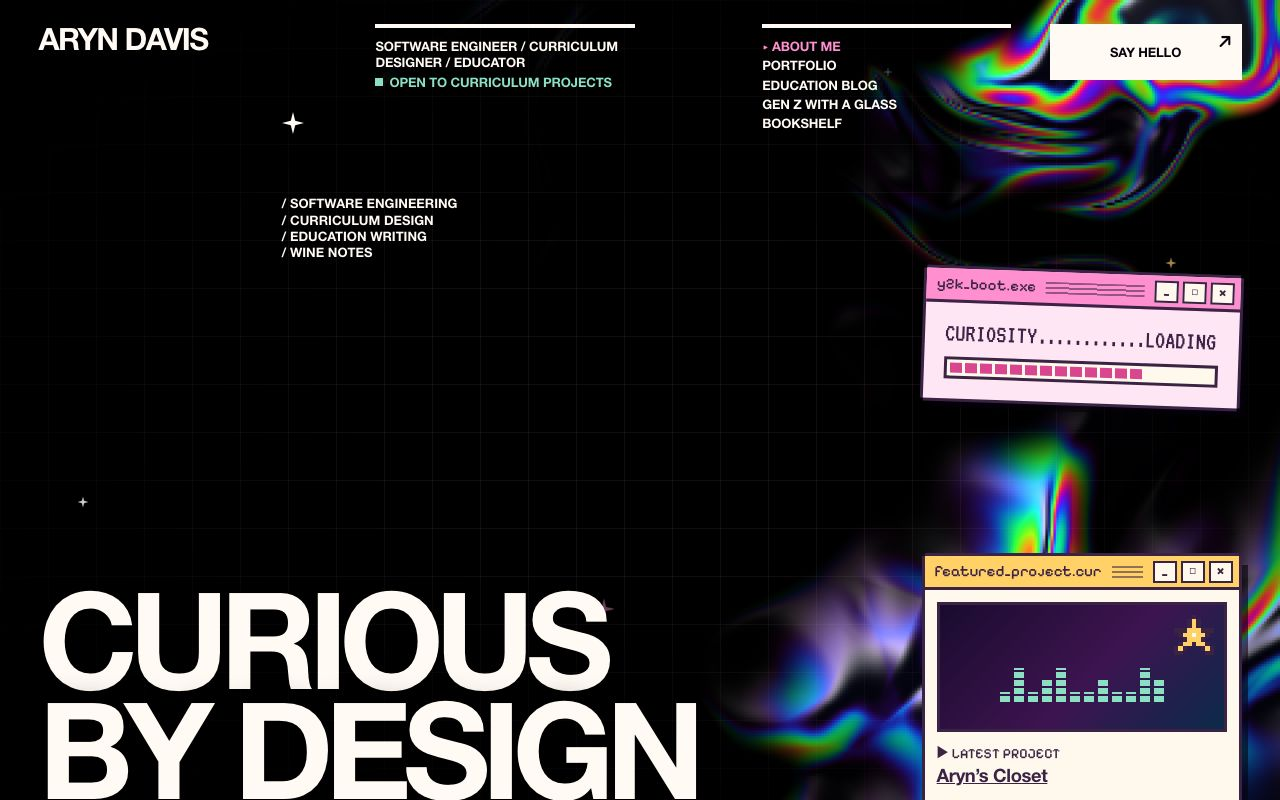
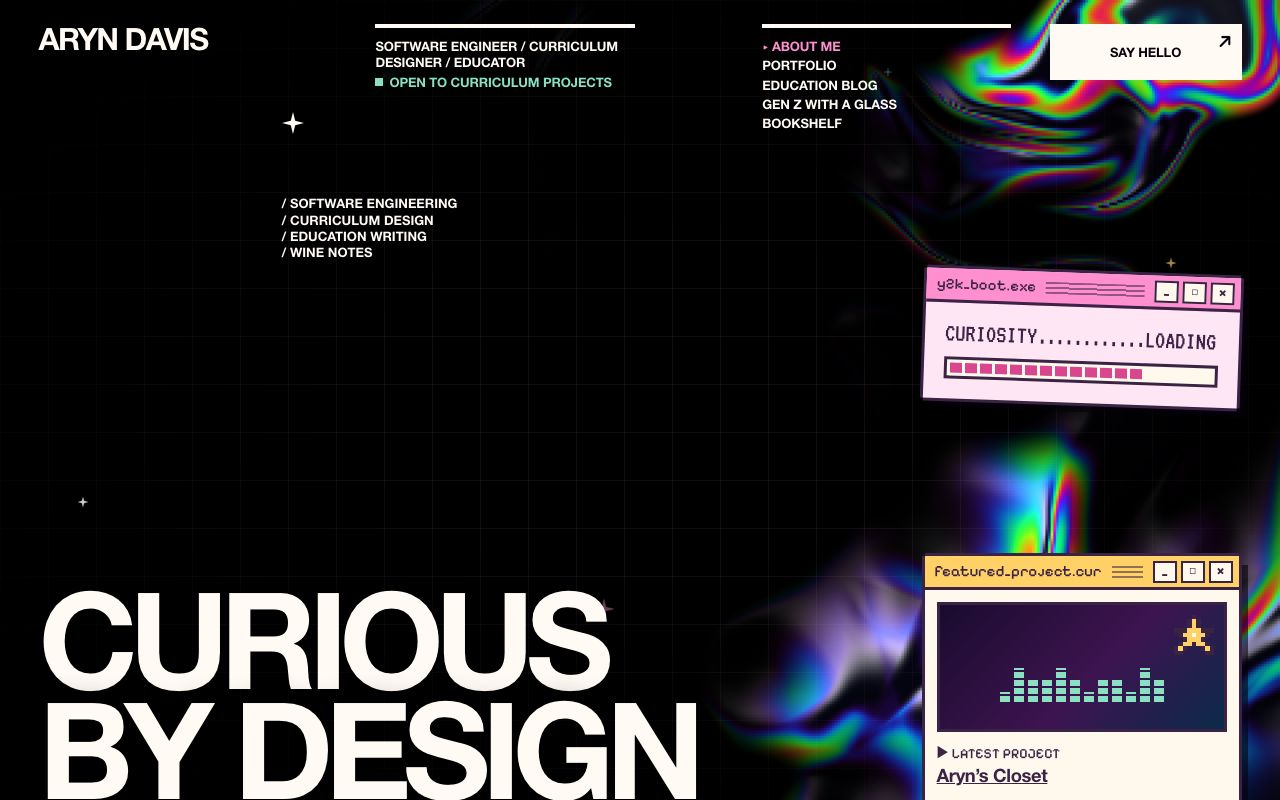
Add a school note to the home page
A draggable, closable note listing my M.Ed. program and relevant
courses, with a spot for assignment links (src/content/school.ts).
Until there are assignments, it says they're coming soon.

diff --git a/src/pages/Home.tsx b/src/pages/Home.tsx
@@ -7,6 +7,7 @@ import { newestFirst, type Entry } from '../content/types'
 import { winePosts } from '../content/wine'
 import { href } from '../router'
 import { currentlyReading } from '../content/books'
+import { school } from '../content/school'
 import { bookshelf, sections, site, type SectionKey } from '../site'
 
 const latest = <T extends Entry>(entries: T[], count = 2) => newestFirst(entries).slice(0, count)
@@ -19,7 +20,7 @@ const folders: { key: SectionKey; icon: IconName; tone: 'yellow' | 'mint' | 'pin
   { key: 'wine', icon: 'glass', tone: 'pink', entries: latest(winePosts) },
 ]
 
-type WindowId = 'about' | 'currently' | 'mail' | SectionKey
+type WindowId = 'about' | 'currently' | 'school' | 'mail' | SectionKey
 
 export default function Home() {
   const [closed, setClosed] = useState<WindowId[]>([])
@@ -181,6 +182,43 @@ export default function Home() {
                   <dd>something interesting</dd>
                 </div>
               </dl>
+            </PixelWindow>
+          )}
+
+          {isOpen('school') && (
+            <PixelWindow title="school_notes.txt" tone="yellow" className="school-window" movable onClose={close('school')} labelledBy="school-title">
+              <div className="folder-head">
+                <PixelIcon name="notebook" size={40} />
+                <div>
+                  <h2 id="school-title">Back in school</h2>
+                  <p>
+                    {school.program}, {school.school} · expected {school.expected}
+                  </p>
+                </div>
+              </div>
+              <p className="folder-recent">Relevant courses:</p>
+              <ul className="folder-list">
+                {school.courses.map((course) => (
+                  <li key={course}>{course}</li>
+                ))}
+              </ul>
+              <p className="folder-recent">Assignments:</p>
+              {school.assignments.filter((a) => /^https?:\/\//i.test(a.href)).length ? (
+                <ul className="folder-list">
+                  {school.assignments
+                    .filter((a) => /^https?:\/\//i.test(a.href))
+                    .map((assignment) => (
+                      <li key={assignment.href}>
+                        <a href={assignment.href} target="_blank" rel="noopener noreferrer">
+                          {assignment.title}
+                        </a>
+                        {assignment.course && <span className="school-course"> · {assignment.course}</span>}
+                      </li>
+                    ))}
+                </ul>
+              ) : (
+                <p className="school-soon">Coming soon, once there’s something to share!</p>
+              )}
             </PixelWindow>
           )}
 

diff --git a/src/styles.css b/src/styles.css
@@ -560,6 +560,11 @@ button.pixel-button:active {
   rotate: -1.4deg;
 }
 
+.desktop-windows > .school-window {
+  grid-column: span 7;
+  rotate: 0.8deg;
+}
+
 .desktop-windows > .reopen {
   grid-column: 1 / -1;
   justify-self: start;
@@ -1191,7 +1196,8 @@ a.pixel-button.substack-link:hover {
   .desktop-windows > *,
   .desktop-windows > .about-window,
   .desktop-windows > .folder-portfolio,
-  .desktop-windows > .mail-window {
+  .desktop-windows > .mail-window,
+  .desktop-windows > .school-window {
     grid-column: span 6;
   }
 }
@@ -1245,7 +1251,8 @@ a.pixel-button.substack-link:hover {
   .desktop-windows > *,
   .desktop-windows > .about-window,
   .desktop-windows > .folder-portfolio,
-  .desktop-windows > .mail-window {
+  .desktop-windows > .mail-window,
+  .desktop-windows > .school-window {
     grid-column: 1;
   }
 
@@ -1937,4 +1944,23 @@ a.pixel-button.substack-link:hover {
   flex-wrap: wrap;
   justify-content: flex-end;
   gap: 4px 18px;
+}
+
+/* ---------- School note (home) ---------- */
+
+.school-window h2 {
+  margin: 0;
+}
+
+.school-window .folder-list li {
+  cursor: default;
+}
+
+.school-course {
+  opacity: 0.75;
+}
+
+.school-soon {
+  margin: 4px 0 0;
+  font: 1.2rem/1.2 var(--terminal);
 }

diff --git a/src/content/school.ts b/src/content/school.ts
@@ -1,0 +1,15 @@
+// The school note on the home page. Add assignments as you have them; until then the note says they're coming soon.
+// Only http(s) links are shown.
+
+export const school = {
+  program: 'M.Ed. in Technology, Media, and Learning',
+  school: 'Teachers College, Columbia University',
+  expected: 'May 2028',
+  courses: [
+    'Instructional Design of Education Technology',
+    'Ethics, Equity, and Social Justice in Educational Technologies',
+    'Culture, Media, and Education',
+  ],
+  // Example: { title: 'Learning experience design brief', course: 'Instructional Design of Education Technology', href: 'https://…' },
+  assignments: [] as { title: string; course?: string; href: string }[],
+}
